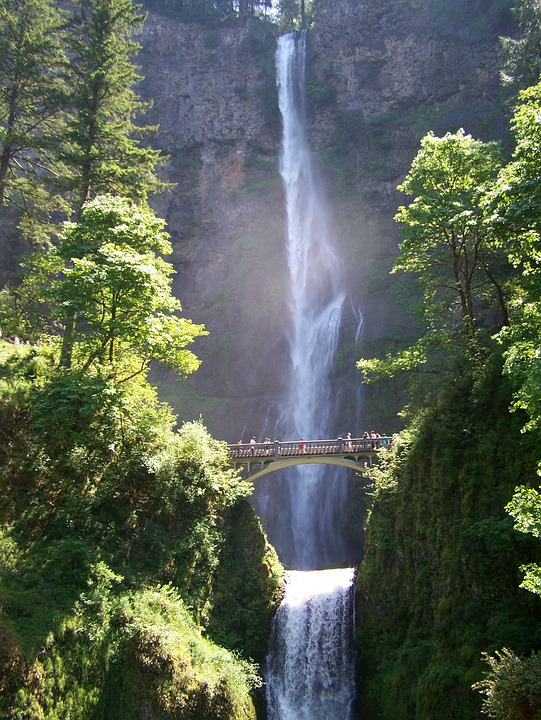
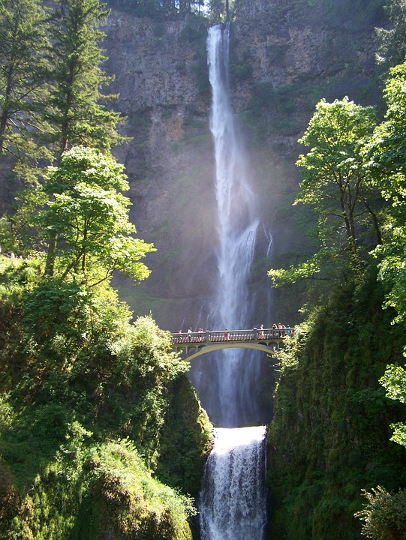
add 'play again' button following form submit

diff --git a/index.html b/index.html
@@ -37,21 +37,24 @@
         <div id="cannon">
           <p class="subtitle">You would have a great time at </p>
           <h1>Cannon Beach</h1>
-          <img src="img/cannon.png" alt="a beach featuring a backlit seastack">
+          <img src="img/cannon.png" alt="a beach featuring a backlit seastack" class="answer-img">
         </div>
         <div id="multnomah">
           <p class="subtitle">You would have a great time at </p>
           <h1>Multnomah Falls</h1>
-          <img src="img/multnomah.png" alt="A large waterfall in the background, with a bridge in front">
+          <img src="img/multnomah.png" alt="A large waterfall in the background, with a bridge in front" class="answer-img">
         </div>
         <div id="hood">
           <p class="subtitle">You would have a great time at </p>
           <h1>Mt. Hood</h1>
-          <img src="img/hood.png" alt="Mount Hood and its reflection off a lake in the foreground">
+          <img src="img/hood.png" alt="Mount Hood and its reflection off a lake in the foreground" class="answer-img">
         </div>
         <div id="mind">
           <p class="subtitle">Have you tried meditation?</p>
-          <img src="img/mind.png" alt="expanding mind meme escalating from Multnomah Falls to Cannon Beach to Mt. Hood to 'the mountain of your mind'.">
+          <img src="img/mind.png" alt="expanding mind meme escalating from Multnomah Falls to Cannon Beach to Mt. Hood to 'the mountain of your mind'." class="answer-img">
+        </div>
+        <div style="text-align:center;">
+          <button type="button" class="btn btn-danger" id="retake">Play Again</button>
         </div>
       </div>
     </div>
@@ -119,8 +122,6 @@
         <button type="submit" class="btn btn-success">find your outdoor experience!</button>
       </form>
     </div>
-  </div>
-  <div class="footer">
   </div>
 </div>
 </body>

diff --git a/js/scripts.js b/js/scripts.js
@@ -27,8 +27,7 @@ $(document).ready(function() {
     event.preventDefault();
     $("form").hide();
     $(".question").hide();
-    // $(".four").hide();
-    // $(".five").hide();
+    $("#retake").show();
 
 
     var behavior = parseInt($("#woodsy").val());
@@ -59,6 +58,19 @@ $(document).ready(function() {
       $("#hood").show();
       $("#mind").hide();
     }
+  });
 
+  $("#retake").click(function() {
+    $(".forest").hide();
+    $(".mtn").hide();
+    $(".ocean").hide();
+    $("#cannon").hide();
+    $("#multnomah").hide();
+    $("#hood").hide();
+    $("#mind").hide();
+    $("body").removeClass();
+    $("#retake").hide();
+    $("form").show();
+    $(".question").show();
   });
 });

diff --git a/css/styles.css b/css/styles.css
@@ -6,8 +6,8 @@ body {
 }
 
 select {
-    margin-right: auto;
-    margin-left: auto;
+    /* margin-right: auto;
+    margin-left: auto; */
     margin-bottom: 5px;
 }
 
@@ -66,7 +66,7 @@ select {
   display: none;
 }
 
-#hood, #cannon, #multnomah, #mind {
+#hood, #cannon, #multnomah, #mind, #retake {
   display: none;
 }
 
@@ -111,4 +111,18 @@ img#tree-icon {
   width: 80px;
   margin-top: auto;
   margin-bottom: auto;
+}
+
+#retake {
+  padding-left: 25px;
+  padding-right: 25px;
+  padding-top: 10px;
+  padding-bottom: 10px;
+}
+
+.answer-img {
+  width: 100%;
+  max-width: 800px;
+  max-height: 700px;
+  padding: 25px;
 }
